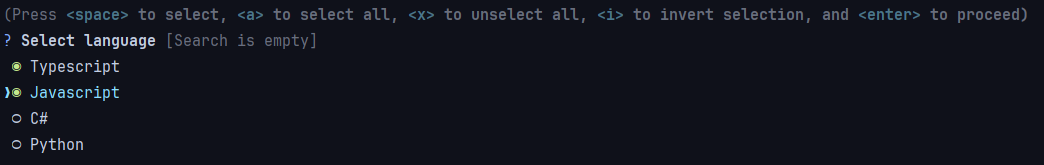
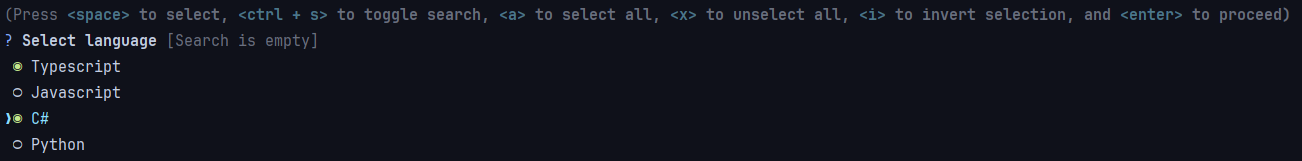
Update 💡 : App - Изменил скриншоты. Добавил подсказку с ctrl + s

diff --git a/dist/src/index.js b/dist/src/index.js
@@ -283,6 +283,7 @@ export default createPrompt((config, done) => {
     // Подсказки
     const helpRows = [
         `${checkboxTheme.style.key('space')} to select`,
+        `${checkboxTheme.style.key('ctrl + s')} to toggle search`,
         `${checkboxTheme.style.key('a')} to select all`,
         `${checkboxTheme.style.key('x')} to unselect all`,
         `${checkboxTheme.style.key('i')} to invert selection`,
@@ -304,6 +305,7 @@ export default createPrompt((config, done) => {
         : inputTheme.style.help('Nothing found');
     // Как сделать так, чтобы курсор был в том месте, где я ввожу я -
     // так и не понял
+    // Это символ который убирает курсор
     const _hideCursorSym = `\u001B[?25l`;
     return `${_help}${prefix} ${_message} ${_input}${_errorMessage}\n${_page}${_hideCursorSym}`;
 });

diff --git a/src/index.ts b/src/index.ts
@@ -419,6 +419,7 @@ export default createPrompt(
         // Подсказки
         const helpRows      = [
             `${ checkboxTheme.style.key('space') } to select`,
+            `${ checkboxTheme.style.key('ctrl + s') } to toggle search`,
             `${ checkboxTheme.style.key('a') } to select all`,
             `${ checkboxTheme.style.key('x') } to unselect all`,
             `${ checkboxTheme.style.key('i') } to invert selection`,
@@ -441,6 +442,7 @@ export default createPrompt(
 
         // Как сделать так, чтобы курсор был в том месте, где я ввожу я -
         // так и не понял
+        // Это символ который убирает курсор
         const _hideCursorSym = `\u001B[?25l`;
 
         return `${ _help }${ prefix } ${ _message } ${ _input }${ _errorMessage }\n${ _page }${ _hideCursorSym }`;

diff --git a/README.md b/README.md
@@ -8,6 +8,8 @@ npm i @vanyamate/inquirer-checkbox-with-search
 
 ![img.png](img.png)
 ![img_1.png](img_1.png)
+![img_2.png](img_2.png)
+![img_3.png](img_3.png)
 
 ## Usage
 
